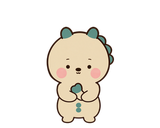
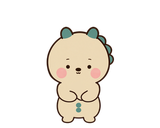
운동기록 프로토타입 v2.02 — 이무 Lv.1·1+ 포즈 «빈손»(형 11-21 «추천대로ㄱ», design nijim_imu_lv1_pose_emptyhand_20261121): 포즈 클립 두 손 사이 초록 조각(꼬리 끝)·그 테두리만 삭제, 손 밖 변화 0 · sig/imu lv01·lv01_big(.webp·_pose.png)·flex/imu lv01 6개 · anim.js·chars.js 무변경 · 캐시키 v=2.02 · 되돌릴 곳 ef767eea

Changed region(s): [[0.4375, 0.625, 0.5312, 0.75]]

diff --git a/index.html b/index.html
@@ -5,8 +5,8 @@
 <meta name="viewport" content="width=device-width, initial-scale=1, viewport-fit=cover">
 <title>니짐내짐 운동기록 · 캐릭터 성장 프로토타입</title>
 <link rel="stylesheet" href="https://cdn.jsdelivr.net/gh/orioncactus/pretendard/dist/web/static/pretendard.css">
-<link rel="stylesheet" href="style.css?v=2.01">
-<link rel="stylesheet" href="admin.css?v=2.01">
+<link rel="stylesheet" href="style.css?v=2.02">
+<link rel="stylesheet" href="admin.css?v=2.02">
 </head>
 <body>
 <div class="app" id="app">
@@ -47,32 +47,32 @@
   <div class="evo-hint" id="evoHint">화면을 탭하면 건너뛰어요</div>
 </div>
 
-<script src="assets/chars.js?v=2.01"></script>
-<script src="assets/anim/anim.js?v=2.01"></script>
-<script src="exercises.js?v=2.01"></script>
-<script src="ex_guide.js?v=2.01"></script>
-<script src="engine.js?v=2.01"></script>
-<script src="config_store.js?v=2.01"></script>
-<script src="admin_shop82.js?v=2.01"></script>
-<script src="assets/food/points.js?v=2.01"></script>
-<script src="eat.js?v=2.01"></script>
-<script src="charanim.js?v=2.01"></script>
-<script src="qr.js?v=2.01"></script>
-<script src="center_machines.js?v=2.01"></script>
-<script src="gymreq.js?v=2.01"></script>
-<script src="item_config.js?v=2.01"></script>
-<script src="equip.js?v=2.01"></script>
-<script src="gear.js?v=2.01"></script>
-<script src="coach_ai.js?v=2.01"></script>
-<script src="app.js?v=2.01"></script>
-<script src="coach_config.js?v=2.01"></script>
-<script src="screens2.js?v=2.01"></script>
-<script src="badges.js?v=2.01"></script>
-<script src="coach_info.js?v=2.01"></script>
-<script src="center_rank.js?v=2.01"></script>
-<script src="ranking.js?v=2.01"></script>
-<script src="share.js?v=2.01"></script>
-<script src="feed.js?v=2.01"></script>
-<script src="admin.js?v=2.01"></script>
+<script src="assets/chars.js?v=2.02"></script>
+<script src="assets/anim/anim.js?v=2.02"></script>
+<script src="exercises.js?v=2.02"></script>
+<script src="ex_guide.js?v=2.02"></script>
+<script src="engine.js?v=2.02"></script>
+<script src="config_store.js?v=2.02"></script>
+<script src="admin_shop82.js?v=2.02"></script>
+<script src="assets/food/points.js?v=2.02"></script>
+<script src="eat.js?v=2.02"></script>
+<script src="charanim.js?v=2.02"></script>
+<script src="qr.js?v=2.02"></script>
+<script src="center_machines.js?v=2.02"></script>
+<script src="gymreq.js?v=2.02"></script>
+<script src="item_config.js?v=2.02"></script>
+<script src="equip.js?v=2.02"></script>
+<script src="gear.js?v=2.02"></script>
+<script src="coach_ai.js?v=2.02"></script>
+<script src="app.js?v=2.02"></script>
+<script src="coach_config.js?v=2.02"></script>
+<script src="screens2.js?v=2.02"></script>
+<script src="badges.js?v=2.02"></script>
+<script src="coach_info.js?v=2.02"></script>
+<script src="center_rank.js?v=2.02"></script>
+<script src="ranking.js?v=2.02"></script>
+<script src="share.js?v=2.02"></script>
+<script src="feed.js?v=2.02"></script>
+<script src="admin.js?v=2.02"></script>
 </body>
 </html>

diff --git a/app.js b/app.js
@@ -2,7 +2,7 @@
 /* v1.12 — v1.11(C안 1/4 고객 앱 기록 흐름 전부) + 결정 33: 아이템 경험치는 한도 없음(운동 경험치만 하루 600·주 1,800).
    경험치·레벨·표정·랭킹 계산은 engine.js 한 곳(CFG·sessionXP·capGain·applyXP·judgeIntensity·exprFor·forecastWeek). 이 파일은 화면만 */
 const KEY = 'nijim_workout_proto_v111';
-const VER = 'v2.01';
+const VER = 'v2.02';
 /* 확정 12종(결정 22~25) — design v13 정본 · 레벨 띠 11컷 · 표정 5종. 12종 모두 처음부터 선택 가능(결정 25) */
 const CH = {
   mungchi:   { name: '뭉치', josa: '가', intro: '느긋하고 솔직한 땀방울 슬라임' },
